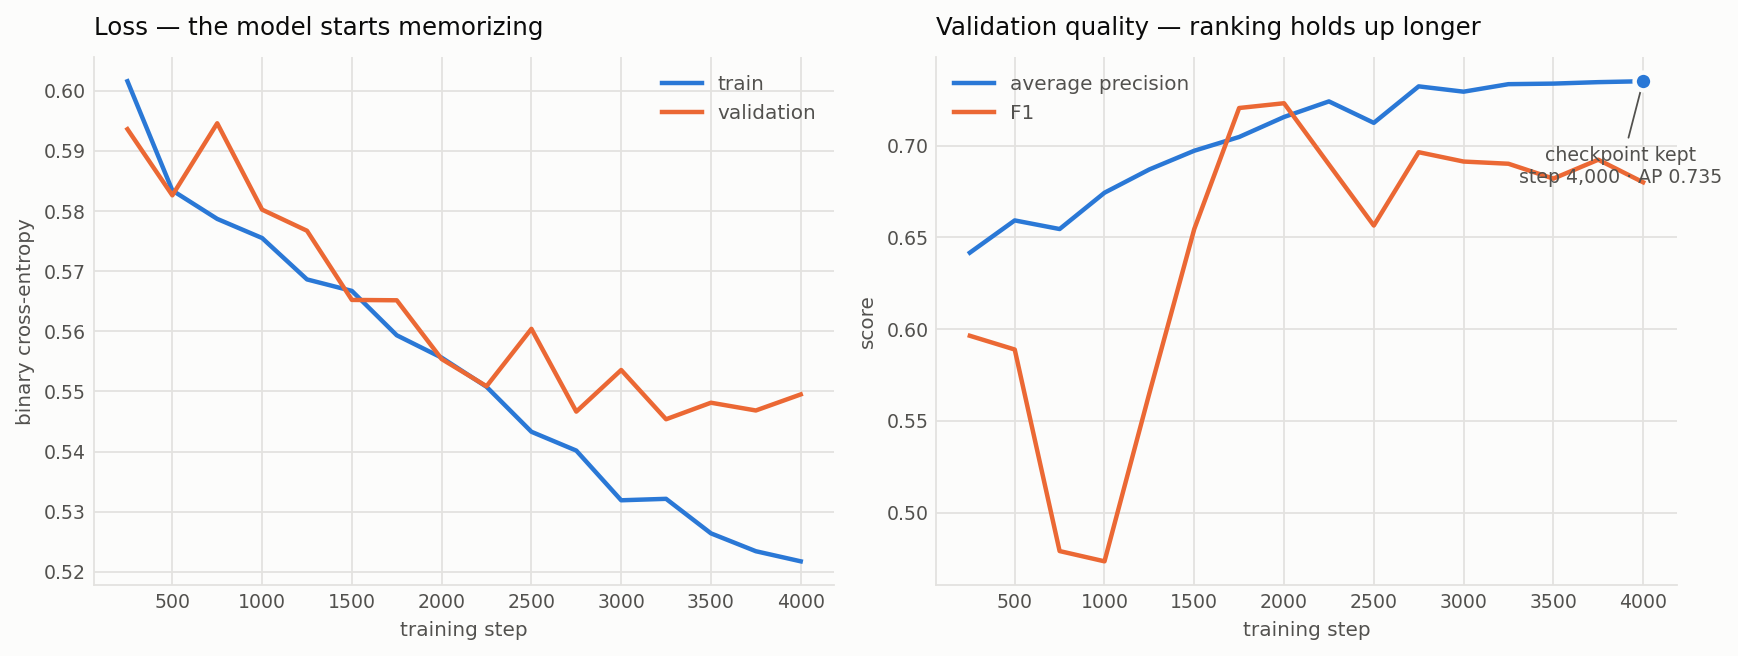
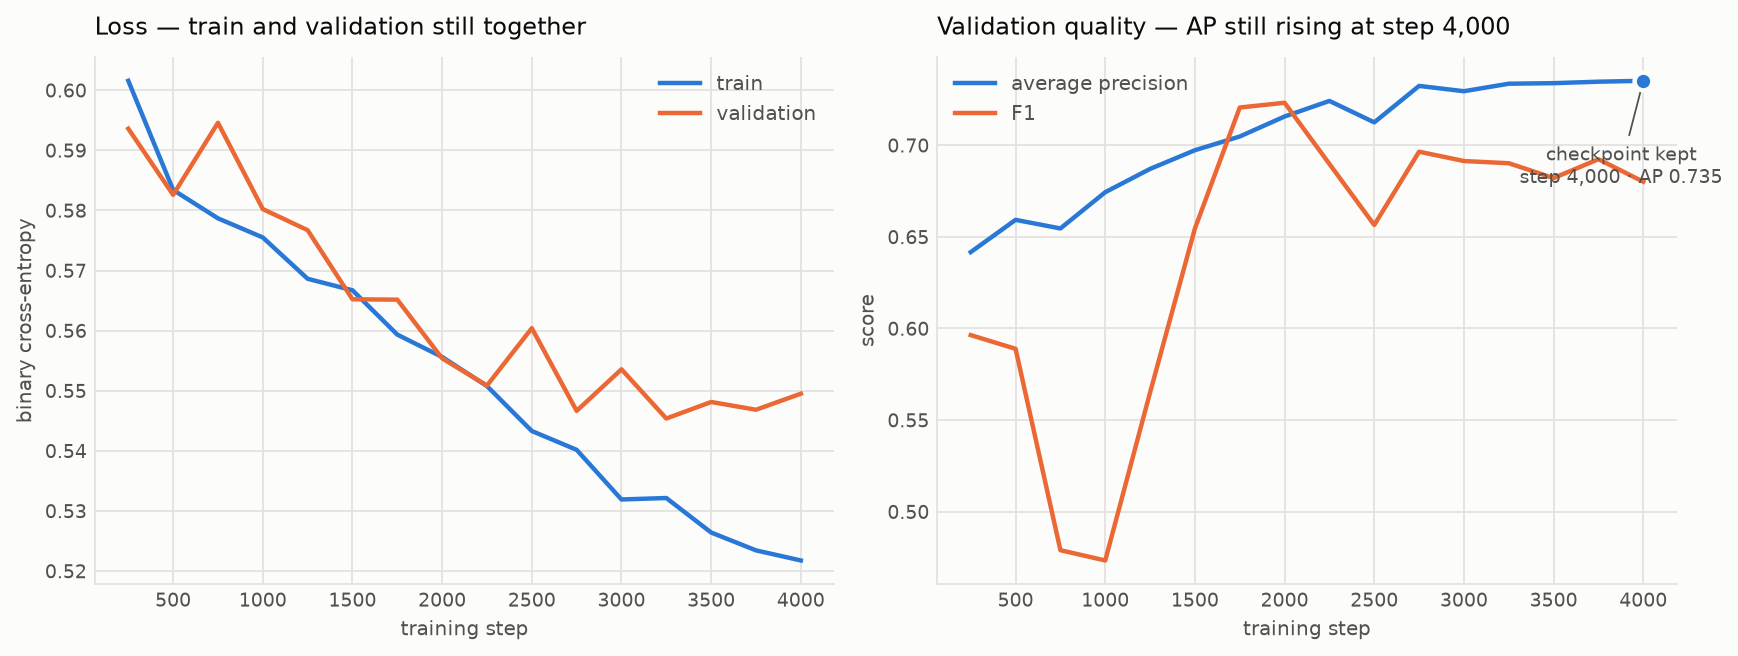
Derive chart titles from the run, and align Phase 1 with the shipped checkpoint
The plot captions were fixed strings written for the first text run. On the
acoustic run they were simply false -- 'the model starts memorizing' printed
above curves where train and validation never separate. Titles now come from
the data: whether validation loss turned, and whether AP was still rising at
the last step.

The text branch was retrained at 3,500 steps for this phase, so the Phase 1
results now describe that checkpoint rather than the retired 6,000-step one:
test F1 0.847 and AP 0.888, evaluated fresh on the same DailyDialog test set.
Cutting the budget nearly in half scored slightly better, which is what the
first run's curves predicted.

diff --git a/scripts/plot_training.py b/scripts/plot_training.py
@@ -57,12 +57,27 @@ def main(argv=None):
     best_i = max(range(len(steps)), key=lambda i: log["val_ap"][i])
     best_step, best_ap = steps[best_i], log["val_ap"][best_i]
 
+    # Titles are derived, not hardcoded. A fixed caption written for one run
+    # ("the model starts memorizing") is simply false on a run that never
+    # overfits, and a chart whose title contradicts its own curves is worse
+    # than one with no title at all.
+    val_loss = log["val_loss"]
+    min_i = min(range(len(val_loss)), key=lambda i: val_loss[i])
+    rebound = val_loss[-1] - val_loss[min_i]
+    if rebound > 0.02 and min_i < len(steps) - 2:
+        loss_title = f"Loss — validation turns at step {steps[min_i]:,.0f}"
+    else:
+        loss_title = "Loss — train and validation still together"
+    metric_title = (f"Validation quality — AP still rising at step {steps[-1]:,.0f}"
+                    if best_i >= len(steps) - 2
+                    else f"Validation quality — AP peaks at step {best_step:,.0f}")
+
     fig, (ax_loss, ax_metric) = plt.subplots(1, 2, figsize=(11, 4.2), dpi=160)
     fig.patch.set_facecolor(SURFACE)
 
     ax_loss.plot(steps, log["train_loss"], color=SERIES_1, linewidth=2, label="train", zorder=3)
     ax_loss.plot(steps, log["val_loss"], color=SERIES_2, linewidth=2, label="validation", zorder=3)
-    style_axis(ax_loss, "Loss — the model starts memorizing", "binary cross-entropy")
+    style_axis(ax_loss, loss_title, "binary cross-entropy")
 
     ax_metric.plot(steps, log["val_ap"], color=SERIES_1, linewidth=2,
                    label="average precision", zorder=3)
@@ -75,7 +90,7 @@ def main(argv=None):
         color=INK_MUTED, fontsize=8.5, ha="center",
         arrowprops=dict(arrowstyle="-", color=INK_MUTED, linewidth=0.8),
     )
-    style_axis(ax_metric, "Validation quality — ranking holds up longer", "score")
+    style_axis(ax_metric, metric_title, "score")
 
     for ax in (ax_loss, ax_metric):
         legend = ax.legend(frameon=False, fontsize=9, loc="best")

diff --git a/README.md b/README.md
@@ -24,7 +24,7 @@ the training loop, the metrics. No HF `Trainer`, no pretrained weights.
 - [x] **Phase 0 — scaffold**: uv project, package layout, data builders
 - [x] **Phase 1 — text branch**: BPE tokenizer + 6.92M-param causal transformer
       over the transcript tail (with previous-turn context), trained on DailyDialog
-      complete-vs-truncated pairs — **test F1 0.838, AP 0.889** (see Results)
+      complete-vs-truncated pairs — **test F1 0.847, AP 0.888** (see Results)
 - [x] **Phase 2 — acoustic branch**: log-mel front end written from scratch
       (`torch.stft` + a hand-built mel filterbank) and a 3.49M-param CNN over it,
       trained on real pauses in real speech — **test AP 0.741**
@@ -44,10 +44,15 @@ so no utterance appears in training.
 |---|---|---|---|---|---|
 | majority class | 0.513 | 0.513 | 1.000 | 0.678 | 0.513 |
 | cue-word heuristic | 0.690 | 0.637 | 0.921 | 0.753 | 0.624 |
-| **TurnWave text model** | **0.832** | **0.827** | **0.849** | **0.838** | **0.889** |
+| **TurnWave text model** | **0.833** | **0.800** | **0.898** | **0.847** | **0.888** |
 
-6.92M parameters, 6,000 steps on a Colab T4 (~50 min), batch size 256, AdamW with
-warmup + cosine decay. Best validation AP 0.895.
+6.92M parameters, 3,500 steps on a Colab T4 (~30 min), batch size 256, AdamW with
+warmup + cosine decay. Best validation AP 0.894 at step 1,250.
+
+The budget was cut from 6,000 steps to 3,500 on the strength of the first run's
+curves, and the shorter run scored *better* on the test set (F1 0.847 vs 0.838)
+for half the compute — the last 2,500 steps had been buying nothing but
+overconfidence.
 
 Average precision is the metric to read here: the cue-word heuristic reaches
 decent recall by guessing "complete" for most inputs, but ranks poorly (AP 0.624)
